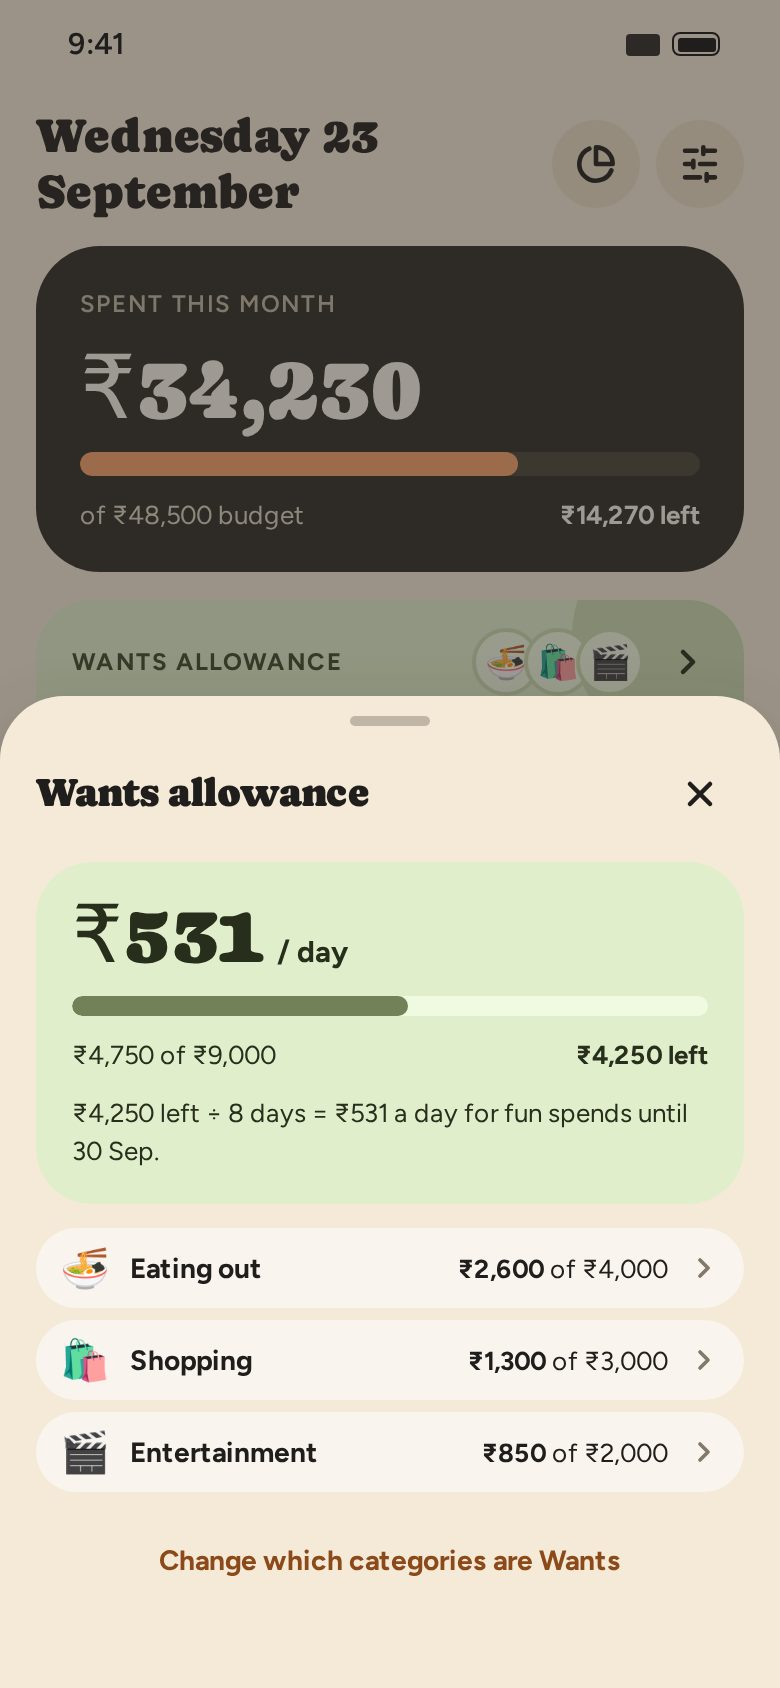
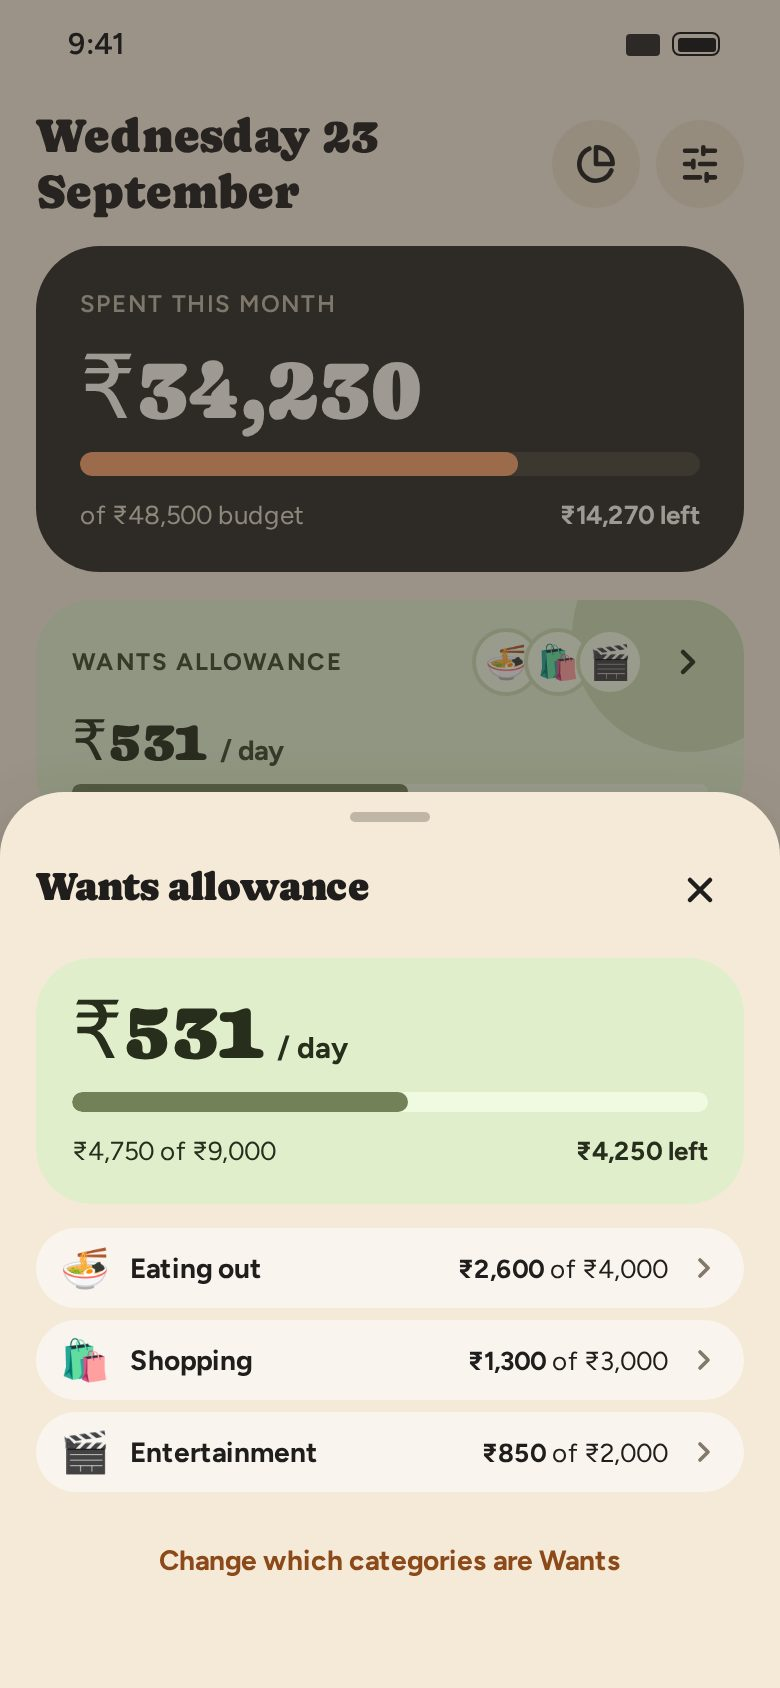
Align allowance details with the design
Claude-Session: https://claude.ai/code/session_01VxxYzfe6jnepoinJ7sz8A9

Changed region(s): [[0.0, 0.4005, 1.0, 0.7085], [0.8923, 0.5237, 0.9231, 0.5545]]

diff --git a/app/src/screens/Overview.tsx b/app/src/screens/Overview.tsx
@@ -1,6 +1,6 @@
 import { useState } from 'react';
 import type { Ctx } from '../ctx';
-import { type SortBy, addMonths, catView, daysInMonth, daysLeft, fmt, monthLong, monthTitle } from '../model';
+import { type SortBy, addMonths, catView, daysLeft, fmt, monthLong, monthTitle } from '../model';
 import { Check, ChevR, Pie, Sliders, Sort } from '../icons';
 import { CloseBtn, Sheet, SpentCard, useSheet } from '../ui';
 
@@ -32,7 +32,6 @@ export function Overview({ ctx }: { ctx: Ctx }) {
   else if (sortBy === 'name') sorted.sort((a, b) => a.name.localeCompare(b.name));
   const sortLabel = SORTS.find(o => o[0] === sortBy)?.[2] || '';
   const ok = wL > 0;
-  const lastDay = `${daysInMonth(now)} ${monthLong(month).slice(0, 3)}`;
   const nextFirst = '1 ' + monthLong(addMonths(month, 1)).slice(0, 3);
 
   return (
@@ -129,9 +128,7 @@ export function Overview({ ctx }: { ctx: Ctx }) {
               <span>{fmt(wS)} of {fmt(wB)}</span>
               <b>{wL > 0 ? fmt(wL) + ' left' : wL < 0 ? 'Over by ' + fmt(-wL) : 'All used'}</b>
             </div>
-            <div style={{ fontSize: 13, lineHeight: 1.45 }}>
-              {ok ? `${fmt(wL)} left ÷ ${left} ${left === 1 ? 'day' : 'days'} = ${perDay} a day for fun spends until ${lastDay}.` : `Your Wants budget is used up. Stick to Needs until it resets on ${nextFirst}.`}
-            </div>
+            {!ok && <div style={{ fontSize: 13, lineHeight: 1.45 }}>Your Wants budget is used up. Stick to Needs until it resets on {nextFirst}.</div>}
           </div>
           <div style={{ display: 'flex', flexDirection: 'column', gap: 6 }}>
             {wants.map(w => (
